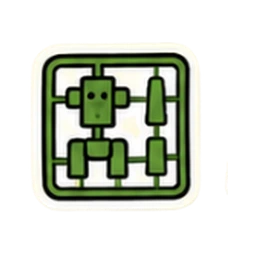
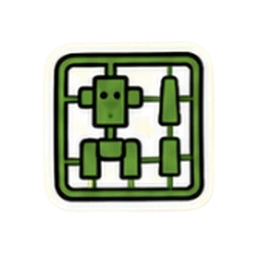
fix: resize additional memory item crops

Changed region(s): [[0.1562, 0.1875, 0.8438, 0.8438]]

diff --git a/tools/build-items-v19.py b/tools/build-items-v19.py
@@ -147,7 +147,12 @@ def projection_groups(on: np.ndarray, target: int, label: str) -> list[tuple[int
     return runs
 
 
-def render_icon(source_rgba: np.ndarray, own_mask: np.ndarray) -> tuple[Image.Image, tuple[int, int, int, int]]:
+def render_icon(
+    source_rgba: np.ndarray,
+    own_mask: np.ndarray,
+    *,
+    safe_size: int = SAFE_SIZE,
+) -> tuple[Image.Image, tuple[int, int, int, int]]:
     ys, xs = np.where(own_mask)
     if not len(xs):
         raise ValueError("Cannot render an empty icon mask")
@@ -156,7 +161,7 @@ def render_icon(source_rgba: np.ndarray, own_mask: np.ndarray) -> tuple[Image.Im
     patch = source_rgba[y0:y1, x0:x1].copy()
     patch[~own_mask[y0:y1, x0:x1], 3] = 0
     icon = Image.fromarray(patch, "RGBA")
-    scale = min(SAFE_SIZE / icon.width, SAFE_SIZE / icon.height)
+    scale = min(safe_size / icon.width, safe_size / icon.height)
     resized = icon.resize(
         (max(1, round(icon.width * scale)), max(1, round(icon.height * scale))),
         Image.Resampling.LANCZOS,
@@ -175,6 +180,8 @@ def render_icon(source_rgba: np.ndarray, own_mask: np.ndarray) -> tuple[Image.Im
 def extract_component_slots(
     path: Path,
     target_offsets: set[int],
+    *,
+    target_size: int = SAFE_SIZE,
 ) -> tuple[dict[int, Image.Image], dict[str, object]]:
     """Extract exact 7x7 slots by assigning whole alpha components by centroid.
 
@@ -211,7 +218,11 @@ def extract_component_slots(
         component_ids = components_by_slot[offset]
         if not component_ids:
             raise ValueError(f"{path.name}: target slot {offset} has no alpha components")
-        icon, bbox = render_icon(source_rgba, np.isin(labels, component_ids))
+        icon, bbox = render_icon(
+            source_rgba,
+            np.isin(labels, component_ids),
+            safe_size=target_size,
+        )
         icons[offset] = icon
         alpha_boxes.append(bbox)
 
@@ -431,6 +442,12 @@ def main() -> None:
         nargs="+",
         help="Overwrite only these exact workbook rows using component-safe slot extraction",
     )
+    parser.add_argument(
+        "--target-size",
+        type=int,
+        default=SAFE_SIZE,
+        help="Maximum content width/height for --replace-rows (default: 200 on a 256 canvas)",
+    )
     args = parser.parse_args()
 
     selected_modes = sum(
@@ -438,6 +455,10 @@ def main() -> None:
     )
     if selected_modes > 1:
         raise ValueError("--full, --replace-from-row, and --replace-rows are mutually exclusive")
+    if not 64 <= args.target_size <= SAFE_SIZE:
+        raise ValueError(f"--target-size must be between 64 and {SAFE_SIZE}")
+    if args.target_size != SAFE_SIZE and args.replace_rows is None:
+        raise ValueError("--target-size is only valid with --replace-rows")
     source_dir = args.source_dir.resolve()
     catalog_pages = source_pages(SOURCE_DIR.resolve(), require_full_catalog=True)
     pages = source_pages(
@@ -529,7 +550,11 @@ def main() -> None:
                 for row_number in rows_to_write
                 if start <= row_number <= end
             }
-            icons_by_offset, report = extract_component_slots(path, offsets)
+            icons_by_offset, report = extract_component_slots(
+                path,
+                offsets,
+                target_size=args.target_size,
+            )
         else:
             icons, report = extract_page(path)
             icons_by_offset = dict(enumerate(icons))
@@ -581,7 +606,9 @@ def main() -> None:
         "icons_generated": len(written_files),
         "catalog_icons_present": len(disk_files),
         "canvas": f"{CANVAS}x{CANVAS}",
-        "safe_content_size": SAFE_SIZE,
+        "safe_content_size": (
+            args.target_size if args.replace_rows is not None else SAFE_SIZE
+        ),
         "encoding": "WebP quality=92 method=4 with alpha",
         "minimum_output_margin": (
             min(report["minimum_margin"] for report in page_reports) if page_reports else None
